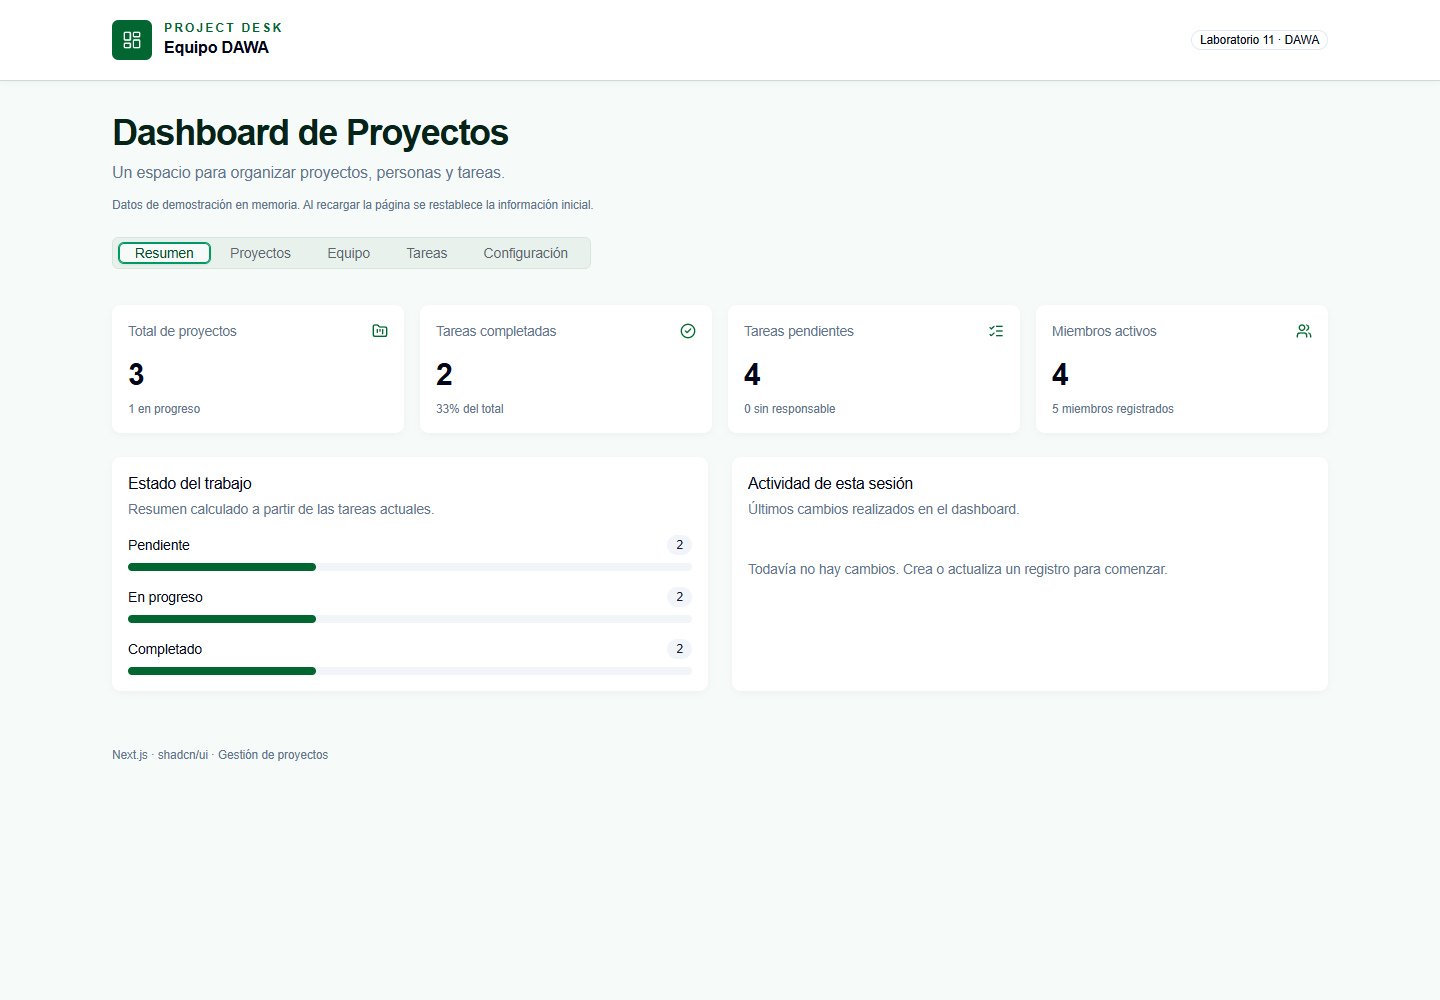
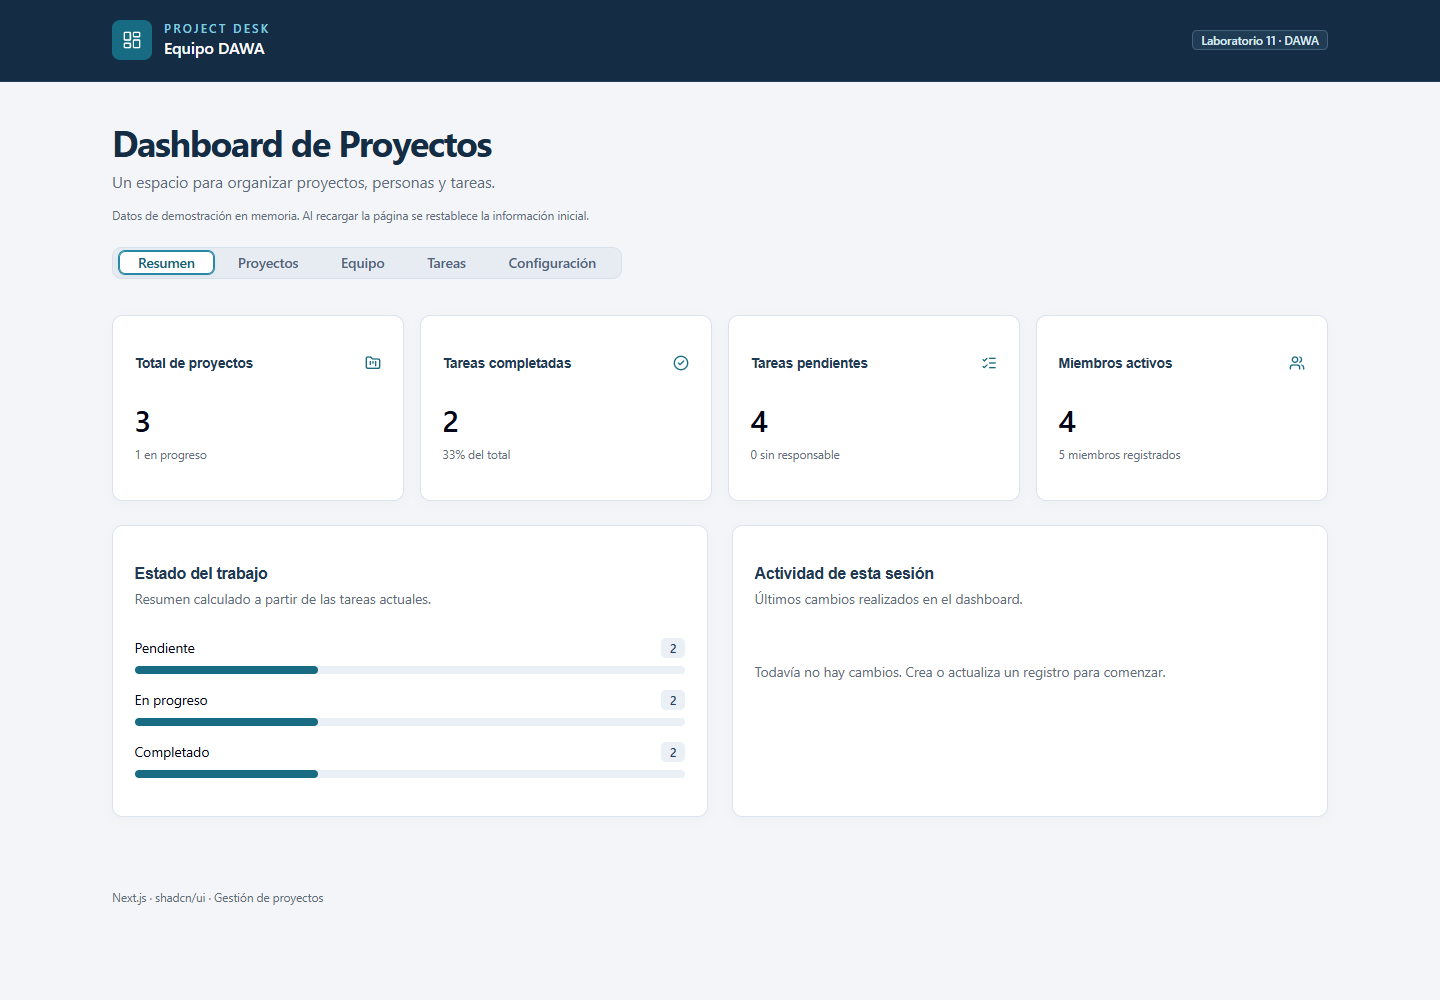
style: establish professional dashboard visual identity

diff --git a/next-shadcn-ui/src/app/globals.css b/next-shadcn-ui/src/app/globals.css
@@ -172,3 +172,45 @@ main h2 { color: oklch(0.27 0.047 164); letter-spacing: -0.025em; }
 [data-slot="table-head"] { font-weight: 600; }
 [data-slot="dialog-content"], [data-slot="alert-dialog-content"] { box-shadow: 0 18px 60px oklch(0.2 0.035 160 / 0.18); }
 @media (prefers-reduced-motion: reduce) { [data-slot="tabs-trigger"] { transition: none; } }
+
+/* Identidad profesional: azul petróleo, tinta y superficies neutras. */
+:root {
+  --background: #f3f5f8;
+  --foreground: #172b45;
+  --primary: #176b83;
+  --primary-foreground: #ffffff;
+  --muted: #edf1f6;
+  --muted-foreground: #5e6d80;
+  --secondary: #eaf0f5;
+  --secondary-foreground: #29415c;
+  --accent: #e6f1f5;
+  --accent-foreground: #155c73;
+  --border: #dce3ec;
+  --input: #d3dde8;
+  --ring: #2789a5;
+  --radius: 0.5rem;
+}
+body { font-family: 'Segoe UI', Arial, sans-serif; line-height: 1.55; -webkit-font-smoothing: antialiased; }
+header.border-b.bg-card { background: #152c45; color: #fff; border-color: #253f5a; box-shadow: none; }
+header p.text-primary { color: #82cee0; }
+header [data-slot="badge"] { color: #dbeaf2; border-color: #426078; background: #203b54; }
+main { padding-top: 2.5rem; padding-bottom: 3rem; }
+main h1 { color: #152c45; font-weight: 700; letter-spacing: -0.04em; }
+main h2 { color: #152c45; font-weight: 650; }
+[data-slot="tabs-list"] { background: #e6ecf2; border: 1px solid #d8e1eb; border-radius: 0.6rem; gap: 0.25rem; }
+[data-slot="tabs-trigger"] { color: #50647b; padding: 0.65rem 1.15rem; border-radius: 0.4rem; font-weight: 600; }
+[data-slot="tabs-trigger"][data-state="active"] { background: #fff; color: #155c73; box-shadow: 0 2px 5px #152c4510; }
+[data-slot="card"] { background: #fff; border: 1px solid #dce3ec; border-radius: 0.65rem; box-shadow: 0 3px 12px #152c4506; }
+[data-slot="card-header"] { padding: 1.35rem 1.35rem 0.8rem; }
+[data-slot="card-content"] { padding-left: 1.35rem; padding-right: 1.35rem; padding-bottom: 1.35rem; }
+[data-slot="card-title"] { color: #213a54; font-weight: 650; }
+[data-slot="button"] { font-weight: 600; border-radius: 0.4rem; min-height: 2.2rem; }
+[data-slot="badge"] { border-radius: 0.3rem; font-weight: 600; }
+[data-slot="table-header"] { background: #eaf0f6; }
+[data-slot="table-head"] { height: 3rem; color: #455a72; font-size: 0.75rem; letter-spacing: 0.025em; }
+[data-slot="table-cell"] { padding-top: 1rem; padding-bottom: 1rem; }
+[data-slot="input"], [data-slot="select-trigger"] { min-height: 2.6rem; background: #fff; border-radius: 0.4rem; }
+[data-slot="dialog-content"], [data-slot="alert-dialog-content"] { border: 1px solid #dce3ec; border-radius: 0.75rem; padding: 1.5rem; box-shadow: 0 25px 80px #10243c35; }
+[data-slot="popover-content"] { background: #fff; }
+.section-heading { padding-bottom: 0.4rem; }
+@media (max-width: 640px) { main { padding-top: 1.75rem; } [data-slot="tabs-trigger"] { padding: 0.6rem 0.8rem; } }
